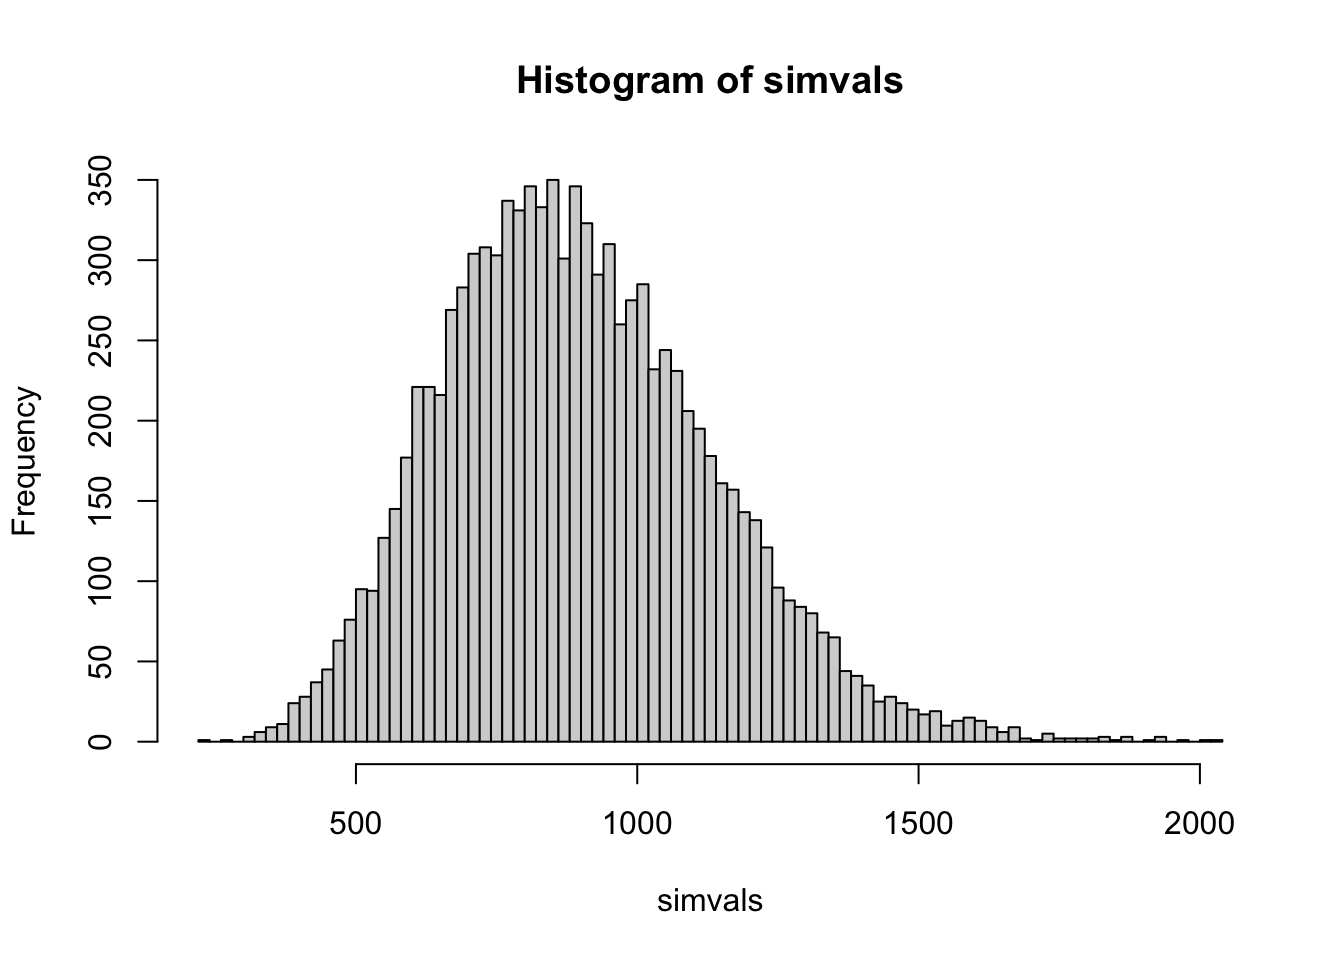
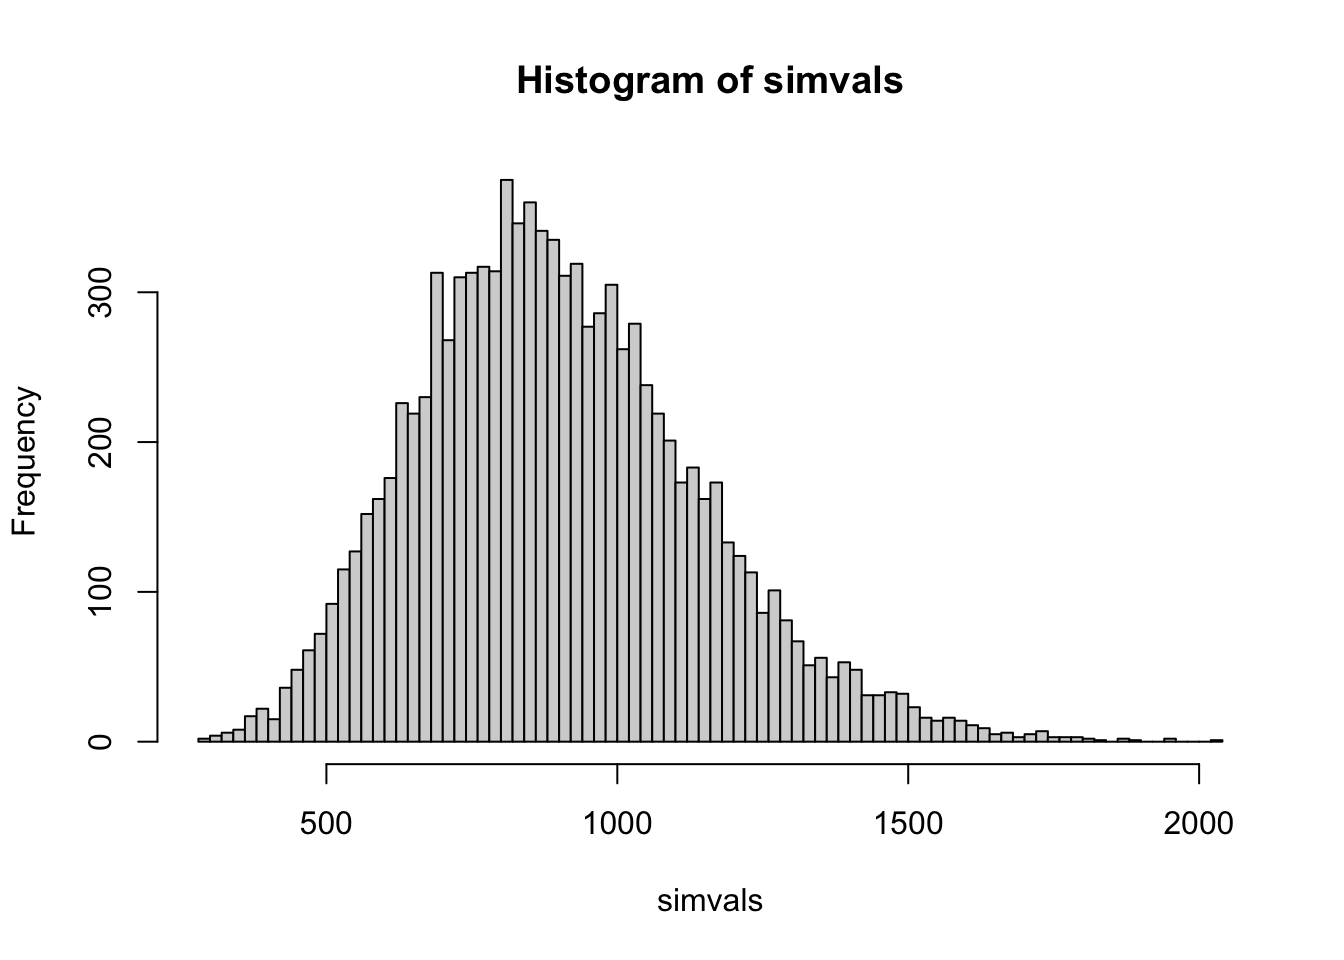
Built site for gh-pages

diff --git a/02_4_bonus_ssh.html b/02_4_bonus_ssh.html
@@ -460,18 +460,19 @@ id_rsa.pub </code></pre>
 <p><code>id_rsa.pub</code> is the public key and <code>id_rsa</code>, the private one. Depending on your OS and shell, you may alternatively have produced files with different names, such as <code>id_ed25519</code> and <code>id_ed25519.pub</code>, <code>.pub</code> still indicates the public key. Now, use <code>scp</code> to upload the public key to Xanadu (you’ll have to make sure you <em>also</em> have a <code>.ssh</code> directory in your home on Xanadu):</p>
 <div class="sourceCode" id="cb4"><pre class="sourceCode bash code-with-copy"><code class="sourceCode bash"><span id="cb4-1"><a href="#cb4-1" aria-hidden="true" tabindex="-1"></a><span class="fu">scp</span> id_rsa.pub username@transfer.cam.uchc.edu:~/.ssh/ </span></code><button title="Copy to Clipboard" class="code-copy-button"><i class="bi"></i></button></pre></div>
 <p>If you don’t have a <code>.ssh</code> directory on Xanadu, log in and create one, then try uploading again.</p>
-<p>Now <strong>log in to Xanadu</strong> and, in the <code>.ssh</code> directory, create a file called <code>authorized_keys</code> and paste the contents of your public key there. You could do this in one go with <code>cat id_rsa.pub &gt;authorized_keys</code>.</p>
+<p>Now <strong>log in to Xanadu</strong> and, in the <code>.ssh</code> directory, create a file called <code>authorized_keys</code> and paste the contents of your public key there. You could do this in one go with</p>
+<div class="sourceCode" id="cb5"><pre class="sourceCode bash code-with-copy"><code class="sourceCode bash"><span id="cb5-1"><a href="#cb5-1" aria-hidden="true" tabindex="-1"></a><span class="fu">cat</span> id_rsa.pub <span class="op">&gt;</span>authorized_keys</span></code><button title="Copy to Clipboard" class="code-copy-button"><i class="bi"></i></button></pre></div>
 <p>Finally, back on your local machine, to avoid having to enter the ssh key passphrase (if you created one), you should do:</p>
-<div class="sourceCode" id="cb5"><pre class="sourceCode bash code-with-copy"><code class="sourceCode bash"><span id="cb5-1"><a href="#cb5-1" aria-hidden="true" tabindex="-1"></a><span class="fu">ssh-add</span> id_rsa</span></code><button title="Copy to Clipboard" class="code-copy-button"><i class="bi"></i></button></pre></div>
+<div class="sourceCode" id="cb6"><pre class="sourceCode bash code-with-copy"><code class="sourceCode bash"><span id="cb6-1"><a href="#cb6-1" aria-hidden="true" tabindex="-1"></a><span class="fu">ssh-add</span> id_rsa</span></code><button title="Copy to Clipboard" class="code-copy-button"><i class="bi"></i></button></pre></div>
 <p>And enter your passphrase at the prompt if you created one.</p>
 <p>Now when you log in, you should not have to enter your password.</p>
 <section id="the-ssh-config" class="level3" data-number="7.1.1">
 <h3 data-number="7.1.1" class="anchored" data-anchor-id="the-ssh-config"><span class="header-section-number">7.1.1</span> The SSH config</h3>
 <p>The second thing we can do to ease connecting to Xanadu is to modify our ssh configuration file, simply called <code>config</code>.</p>
 <p>This file, if it already exists will also be in the <code>.ssh</code> hidden directory. Go there now. If the file does not exist, create it with</p>
-<div class="sourceCode" id="cb6"><pre class="sourceCode bash code-with-copy"><code class="sourceCode bash"><span id="cb6-1"><a href="#cb6-1" aria-hidden="true" tabindex="-1"></a><span class="fu">touch</span> config</span></code><button title="Copy to Clipboard" class="code-copy-button"><i class="bi"></i></button></pre></div>
+<div class="sourceCode" id="cb7"><pre class="sourceCode bash code-with-copy"><code class="sourceCode bash"><span id="cb7-1"><a href="#cb7-1" aria-hidden="true" tabindex="-1"></a><span class="fu">touch</span> config</span></code><button title="Copy to Clipboard" class="code-copy-button"><i class="bi"></i></button></pre></div>
 <p>I’m going to suggest using <code>nano</code> to edit this file for now, but you can use any editor you like.</p>
-<div class="sourceCode" id="cb7"><pre class="sourceCode bash code-with-copy"><code class="sourceCode bash"><span id="cb7-1"><a href="#cb7-1" aria-hidden="true" tabindex="-1"></a><span class="fu">nano</span> config</span></code><button title="Copy to Clipboard" class="code-copy-button"><i class="bi"></i></button></pre></div>
+<div class="sourceCode" id="cb8"><pre class="sourceCode bash code-with-copy"><code class="sourceCode bash"><span id="cb8-1"><a href="#cb8-1" aria-hidden="true" tabindex="-1"></a><span class="fu">nano</span> config</span></code><button title="Copy to Clipboard" class="code-copy-button"><i class="bi"></i></button></pre></div>
 <p>Then enter:</p>
 <pre><code>Host xanadu
 Hostname xanadu-submit-ext.cam.uchc.edu

diff --git a/06_1_stats_1.html b/06_1_stats_1.html
@@ -735,7 +735,7 @@ $y
         }
     }
 }
-&lt;bytecode: 0x7fc0c4d309d8&gt;
+&lt;bytecode: 0x7fb3a59bedd8&gt;
 &lt;environment: namespace:methods&gt;</code></pre>
 </div>
 </div>
@@ -885,18 +885,18 @@ lm(formula = y ~ x, data = z)
 
 Residuals:
     Min      1Q  Median      3Q     Max 
--30.023  -6.893   0.298   6.671  22.697 
+-34.332  -8.309   0.151   8.025  26.711 
 
 Coefficients:
             Estimate Std. Error t value Pr(&gt;|t|)    
-(Intercept) 24.35371    0.80031   30.43   &lt;2e-16 ***
-x            5.11239    0.05865   87.17   &lt;2e-16 ***
+(Intercept) 24.22880    0.89890   26.95   &lt;2e-16 ***
+x            5.03287    0.06409   78.53   &lt;2e-16 ***
 ---
 Signif. codes:  0 '***' 0.001 '**' 0.01 '*' 0.05 '.' 0.1 ' ' 1
 
-Residual standard error: 10.03 on 298 degrees of freedom
-Multiple R-squared:  0.9623,    Adjusted R-squared:  0.9621 
-F-statistic:  7599 on 1 and 298 DF,  p-value: &lt; 2.2e-16</code></pre>
+Residual standard error: 10.88 on 298 degrees of freedom
+Multiple R-squared:  0.9539,    Adjusted R-squared:  0.9537 
+F-statistic:  6166 on 1 and 298 DF,  p-value: &lt; 2.2e-16</code></pre>
 </div>
 </div>
 <p>Add a trendline to our scatter plot:</p>
@@ -924,18 +924,18 @@ lm(formula = y ~ x, data = z)
 
 Residuals:
     Min      1Q  Median      3Q     Max 
--30.023  -6.893   0.298   6.671  22.697 
+-34.332  -8.309   0.151   8.025  26.711 
 
 Coefficients:
             Estimate Std. Error t value Pr(&gt;|t|)    
-(Intercept) 24.35371    0.80031   30.43   &lt;2e-16 ***
-x            5.11239    0.05865   87.17   &lt;2e-16 ***
+(Intercept) 24.22880    0.89890   26.95   &lt;2e-16 ***
+x            5.03287    0.06409   78.53   &lt;2e-16 ***
 ---
 Signif. codes:  0 '***' 0.001 '**' 0.01 '*' 0.05 '.' 0.1 ' ' 1
 
-Residual standard error: 10.03 on 298 degrees of freedom
-Multiple R-squared:  0.9623,    Adjusted R-squared:  0.9621 
-F-statistic:  7599 on 1 and 298 DF,  p-value: &lt; 2.2e-16</code></pre>
+Residual standard error: 10.88 on 298 degrees of freedom
+Multiple R-squared:  0.9539,    Adjusted R-squared:  0.9537 
+F-statistic:  6166 on 1 and 298 DF,  p-value: &lt; 2.2e-16</code></pre>
 </div>
 </div>
 <p>For many years, a different pipe operator was the only one available: <code>%&gt;%</code> It was part of the package <code>magrittr</code>, and then later the <code>tidyverse</code> set of packages. You will probably still see it around a lot and there are <a href="https://www.tidyverse.org/blog/2023/04/base-vs-magrittr-pipe/">some differences</a>.</p>

diff --git a/07_1-3_chapters/rnseq_erkc/scripts/quarto_chapters/07_3_differential_expression.html b/07_1-3_chapters/rnseq_erkc/scripts/quarto_chapters/07_3_differential_expression.html
@@ -618,8 +618,8 @@ low counts [2]     : 0, 0%
 <span id="cb15-3"><a href="#cb15-3" aria-hidden="true" tabindex="-1"></a><span class="co"># get quantiles</span></span>
 <span id="cb15-4"><a href="#cb15-4" aria-hidden="true" tabindex="-1"></a><span class="fu">quantile</span>(simvals, <span class="at">prob=</span><span class="fu">c</span>(<span class="fl">0.025</span>,<span class="fl">0.975</span>))</span></code><button title="Copy to Clipboard" class="code-copy-button"><i class="bi"></i></button></pre></div>
 <div class="cell-output cell-output-stdout">
-<pre><code> 2.5% 97.5% 
-  487  1410 </code></pre>
+<pre><code>    2.5%    97.5% 
+ 490.000 1437.025 </code></pre>
 </div>
 <div class="sourceCode cell-code" id="cb17"><pre class="sourceCode r code-with-copy"><code class="sourceCode r"><span id="cb17-1"><a href="#cb17-1" aria-hidden="true" tabindex="-1"></a><span class="co"># make a histogram using base R</span></span>
 <span id="cb17-2"><a href="#cb17-2" aria-hidden="true" tabindex="-1"></a><span class="fu">hist</span>(simvals, <span class="at">breaks=</span><span class="dv">100</span>)</span></code><button title="Copy to Clipboard" class="code-copy-button"><i class="bi"></i></button></pre></div>

diff --git a/02_1_scripts.html b/02_1_scripts.html
@@ -693,7 +693,7 @@ Warning
 <ul>
 <li>From a mac, you can select from your top dropdown menu <code>Go:Connect to Server</code> and enter <code>smb://cfs09.cam.uchc.edu/home/FCAM/&lt;username&gt;</code>. When prompted, enter your CAM credentials (not your netID/password).<br>
 </li>
-<li>From Windows, you can map a network filesystem using <a href="https://support.microsoft.com/en-us/windows/map-a-network-drive-in-windows-29ce55d1-34e3-a7e2-4801-131475f9557d">these directions</a> and the address formatted like this: <code>\\cfs09.cam.uchc.edu\home\FCAM\&lt;username&gt;</code></li>
+<li>From Windows, you can map a network filesystem using <a href="https://health.uconn.edu/high-performance-computing/tutorials/mapping-a-network-resource/">these directions</a> and the address formatted like this: <code>\\cfs09.cam.uchc.edu\home\FCAM\&lt;username&gt;</code></li>
 </ul>
 <div class="callout callout-style-default callout-warning callout-titled">
 <div class="callout-header d-flex align-content-center">
